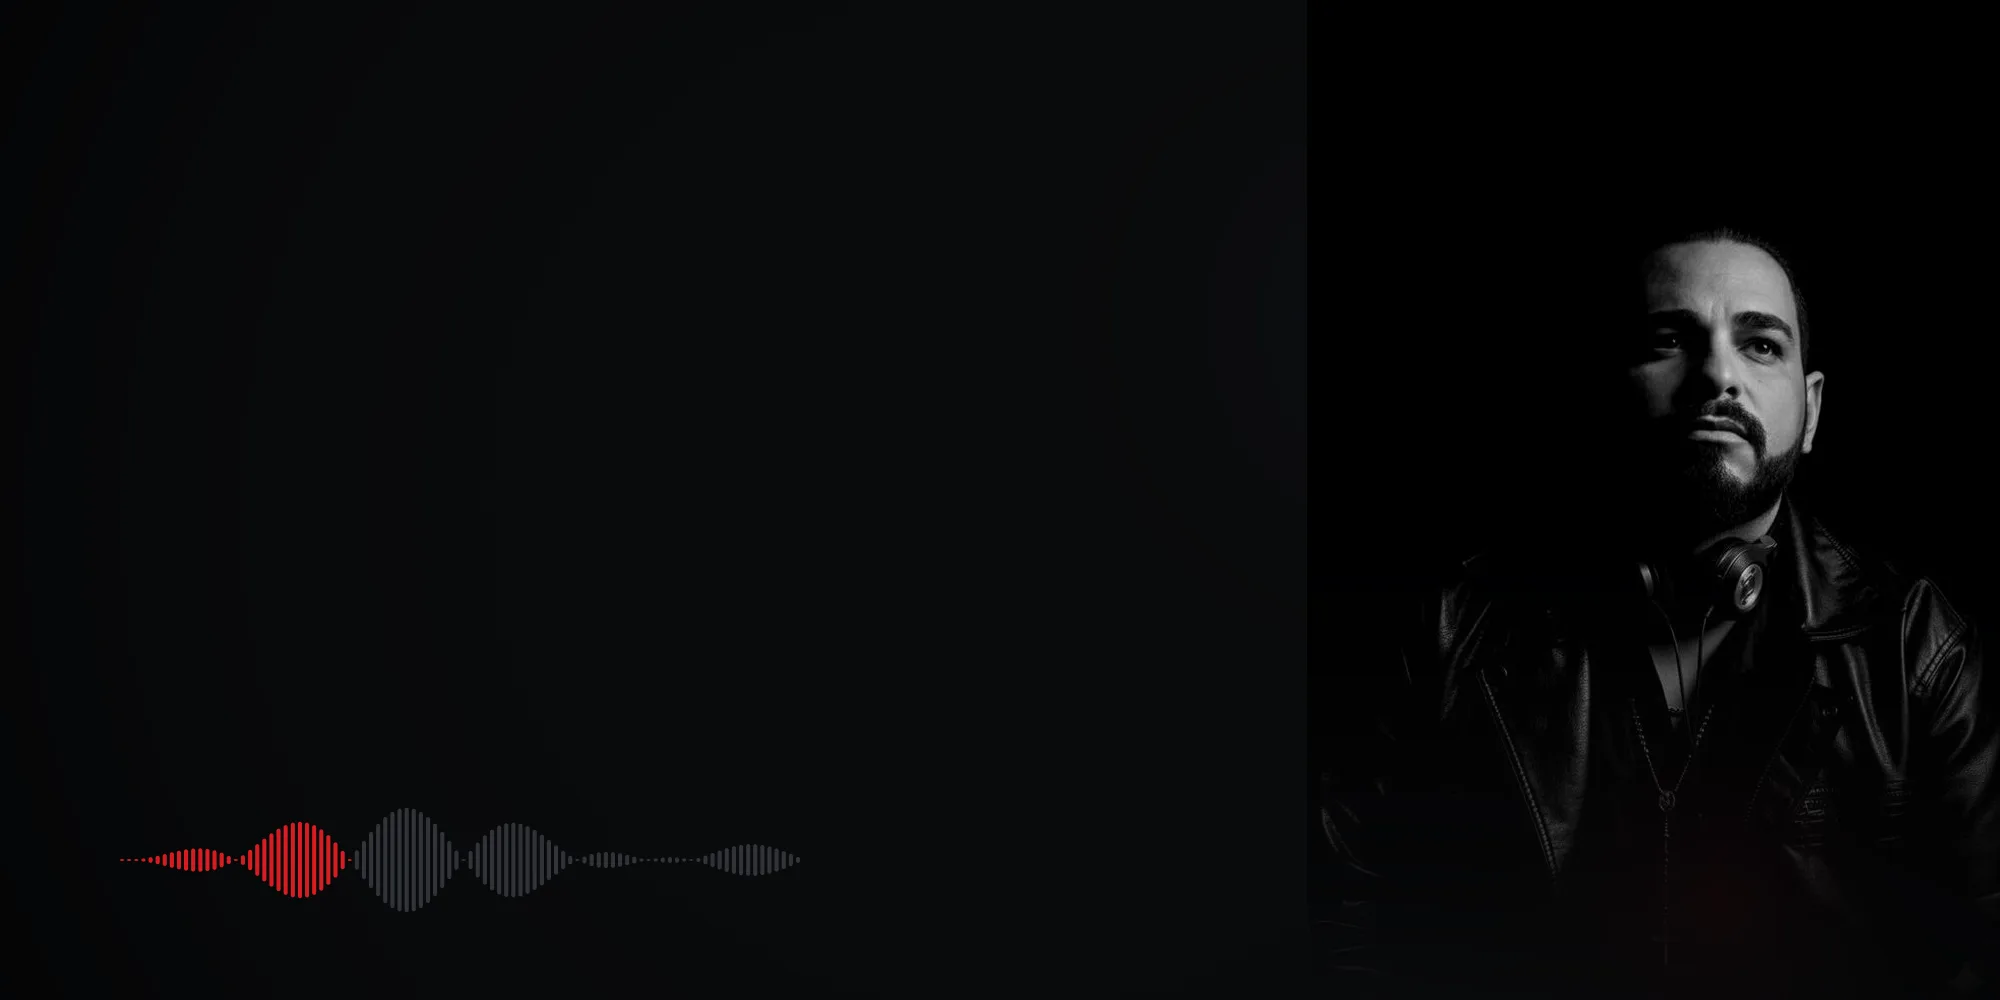
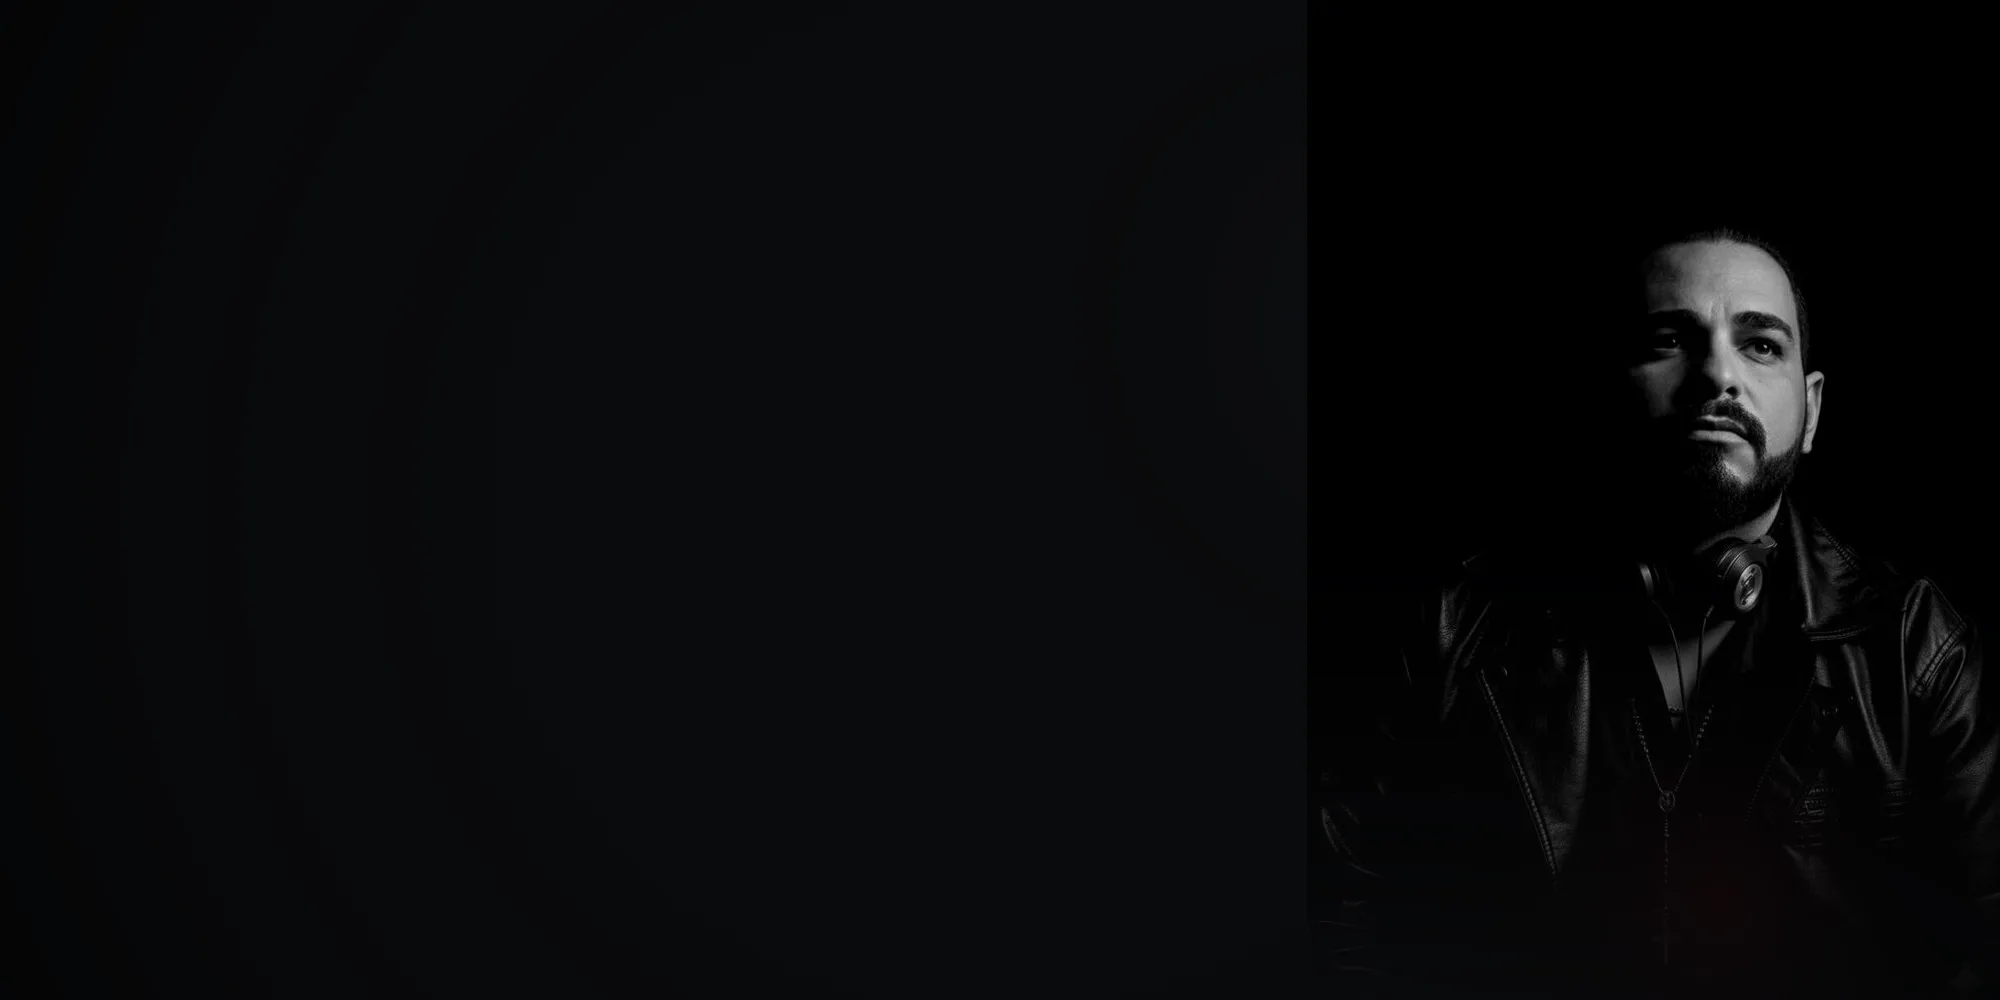
fix(hero): remove waves embutidas nas imagens webp/jpg e corrige overflow lateral mobile e visibilidade do kicker

Changed region(s): [[0.062, 0.806, 0.31, 0.93], [0.341, 0.837, 0.403, 0.868]]

diff --git a/rogerio-mess-dj/assets/build/02-header.js b/rogerio-mess-dj/assets/build/02-header.js
@@ -41,7 +41,6 @@ async function buildDesktop() {
     { input: await glow(W, H, RED, 0.86, 0.9, 0.5, 0.28).png().toBuffer(), blend: 'screen' },        // brasa vermelha canto
     { input: await vignette(W, H, 0.5, 0.32).png().toBuffer(), blend: 'over' },
     { input: await grain(W, H, 24).png().toBuffer(), blend: 'soft-light' },
-    { input: wave, left: Math.round(W * 0.06), top: Math.round(H * 0.80) },         // waveform inferior-esq
   ]).png().toBuffer()
     .then(b => Promise.all([
       sharp(b).webp({ quality: 82 }).toFile(path.join(OUT, 'hero-desktop.webp')),
@@ -54,20 +53,18 @@ async function buildMobile() {
   const W = 1080, H = 1350;
   const subj = await darkGrade(sharp(SRC)).resize({ width: W }).toBuffer();
   const sm = await sharp(subj).metadata();
-  const top = Math.round((sm.height - H) * 0.32);      // foco no rosto (ter\u00e7o superior)
+  const top = Math.round((sm.height - H) * 0.32);      // foco no rosto (terço superior)
   const subjCrop = await sharp(subj)
     .extract({ left: 0, top: Math.max(0, Math.min(top, sm.height - H)), width: W, height: Math.min(H, sm.height) })
     .toBuffer();
 
   const canvas = sharp({ create: { width: W, height: H, channels: 4, background: { ...BG, alpha: 1 } } });
-  const wave = Buffer.from(waveformSVG(Math.round(W * 0.7), 90, { bars: 64, progress: 0.34 }));
   await canvas.composite([
     { input: subjCrop, gravity: 'north' },
     { input: await bottomScrim(W, H, 0.30, 0.99).png().toBuffer(), blend: 'over' },
     { input: await glow(W, H, RED, 0.78, 0.86, 0.55, 0.26).png().toBuffer(), blend: 'screen' },
     { input: await vignette(W, H, 0.5, 0.3).png().toBuffer(), blend: 'over' },
     { input: await grain(W, H, 24).png().toBuffer(), blend: 'soft-light' },
-    { input: wave, left: Math.round(W * 0.15), top: Math.round(H * 0.82) },
   ]).png().toBuffer()
     .then(b => Promise.all([
       sharp(b).webp({ quality: 82 }).toFile(path.join(OUT, 'hero-mobile.webp')),

diff --git a/index.html b/index.html
@@ -45,6 +45,9 @@
 /* ── RESET ───────────────────────────────────────── */
 *,*::before,*::after{box-sizing:border-box;margin:0;padding:0}
 html{scroll-behavior:smooth}
+html, body{
+  max-width:100%;overflow-x:hidden!important;
+}
 body{
   background:var(--bg-0);color:var(--fg);
   font-family:var(--font-sans);font-size:16px;line-height:1.6;
@@ -692,10 +695,11 @@ footer{
       url('rogerio-mess-dj/assets/hero-mobile.webp') center top / cover no-repeat,
       #000000;
   }
-  .hero-inner{padding-top:135px;padding-bottom:40px}
-  .hero-inner .kicker{position:relative;z-index:10;display:inline-flex!important;opacity:1!important;visibility:visible!important;margin-bottom:14px}
-  .hero-h1{margin-bottom:14px}
-  .hero-sub{font-size:.92rem;margin-bottom:20px}
+  .wrap{padding:0 16px!important;max-width:100%!important;box-sizing:border-box!important}
+  .hero-inner{padding-top:135px!important;padding-bottom:40px!important;max-width:100%!important;box-sizing:border-box!important}
+  .hero-inner .kicker{position:relative;z-index:10;display:inline-flex!important;opacity:1!important;visibility:visible!important;transform:none!important;animation:none!important;margin-bottom:14px}
+  .hero-h1{font-size:clamp(2.1rem,7.8vw,3.2rem)!important;line-height:1.05!important;word-wrap:break-word!important;max-width:100%!important;margin-bottom:14px;opacity:1!important;visibility:visible!important;transform:none!important;animation:none!important}
+  .hero-sub{font-size:.92rem;margin-bottom:20px;max-width:100%!important;opacity:1!important;visibility:visible!important;transform:none!important;animation:none!important}
   #nav{padding:0 16px;height:58px}
   .nav-inner{justify-content:space-between;width:100%}
   .brand img{height:18px!important;max-width:175px;width:auto!important;object-fit:contain}
